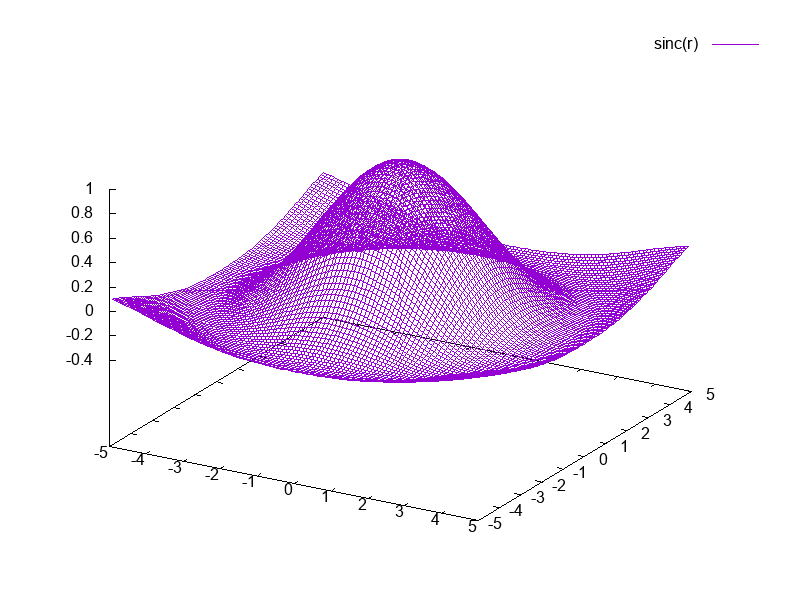
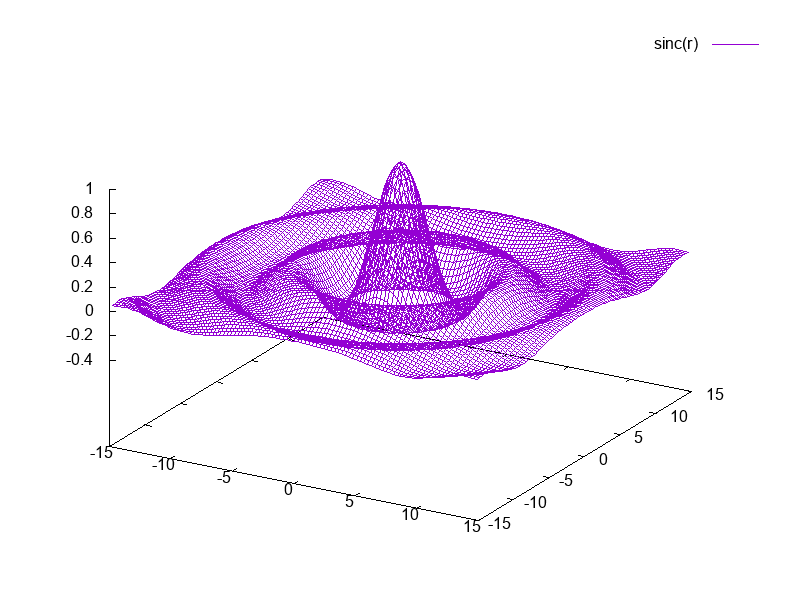
another example

diff --git a/README.md b/README.md
@@ -41,9 +41,9 @@ gnuplot{
 ``` Lua
 local x, y = {}, {}
 for i=1,100 do
-	local xi = (i-.5)/100 * 10 - 5
+	local xi = (i-.5)/100 * 30 - 15
 	table.insert(x,xi)
-	local yi = (i-.5)/100 * 10 - 5
+	local yi = (i-.5)/100 * 30 - 15
 	table.insert(y,yi)
 end
 local z = {}
